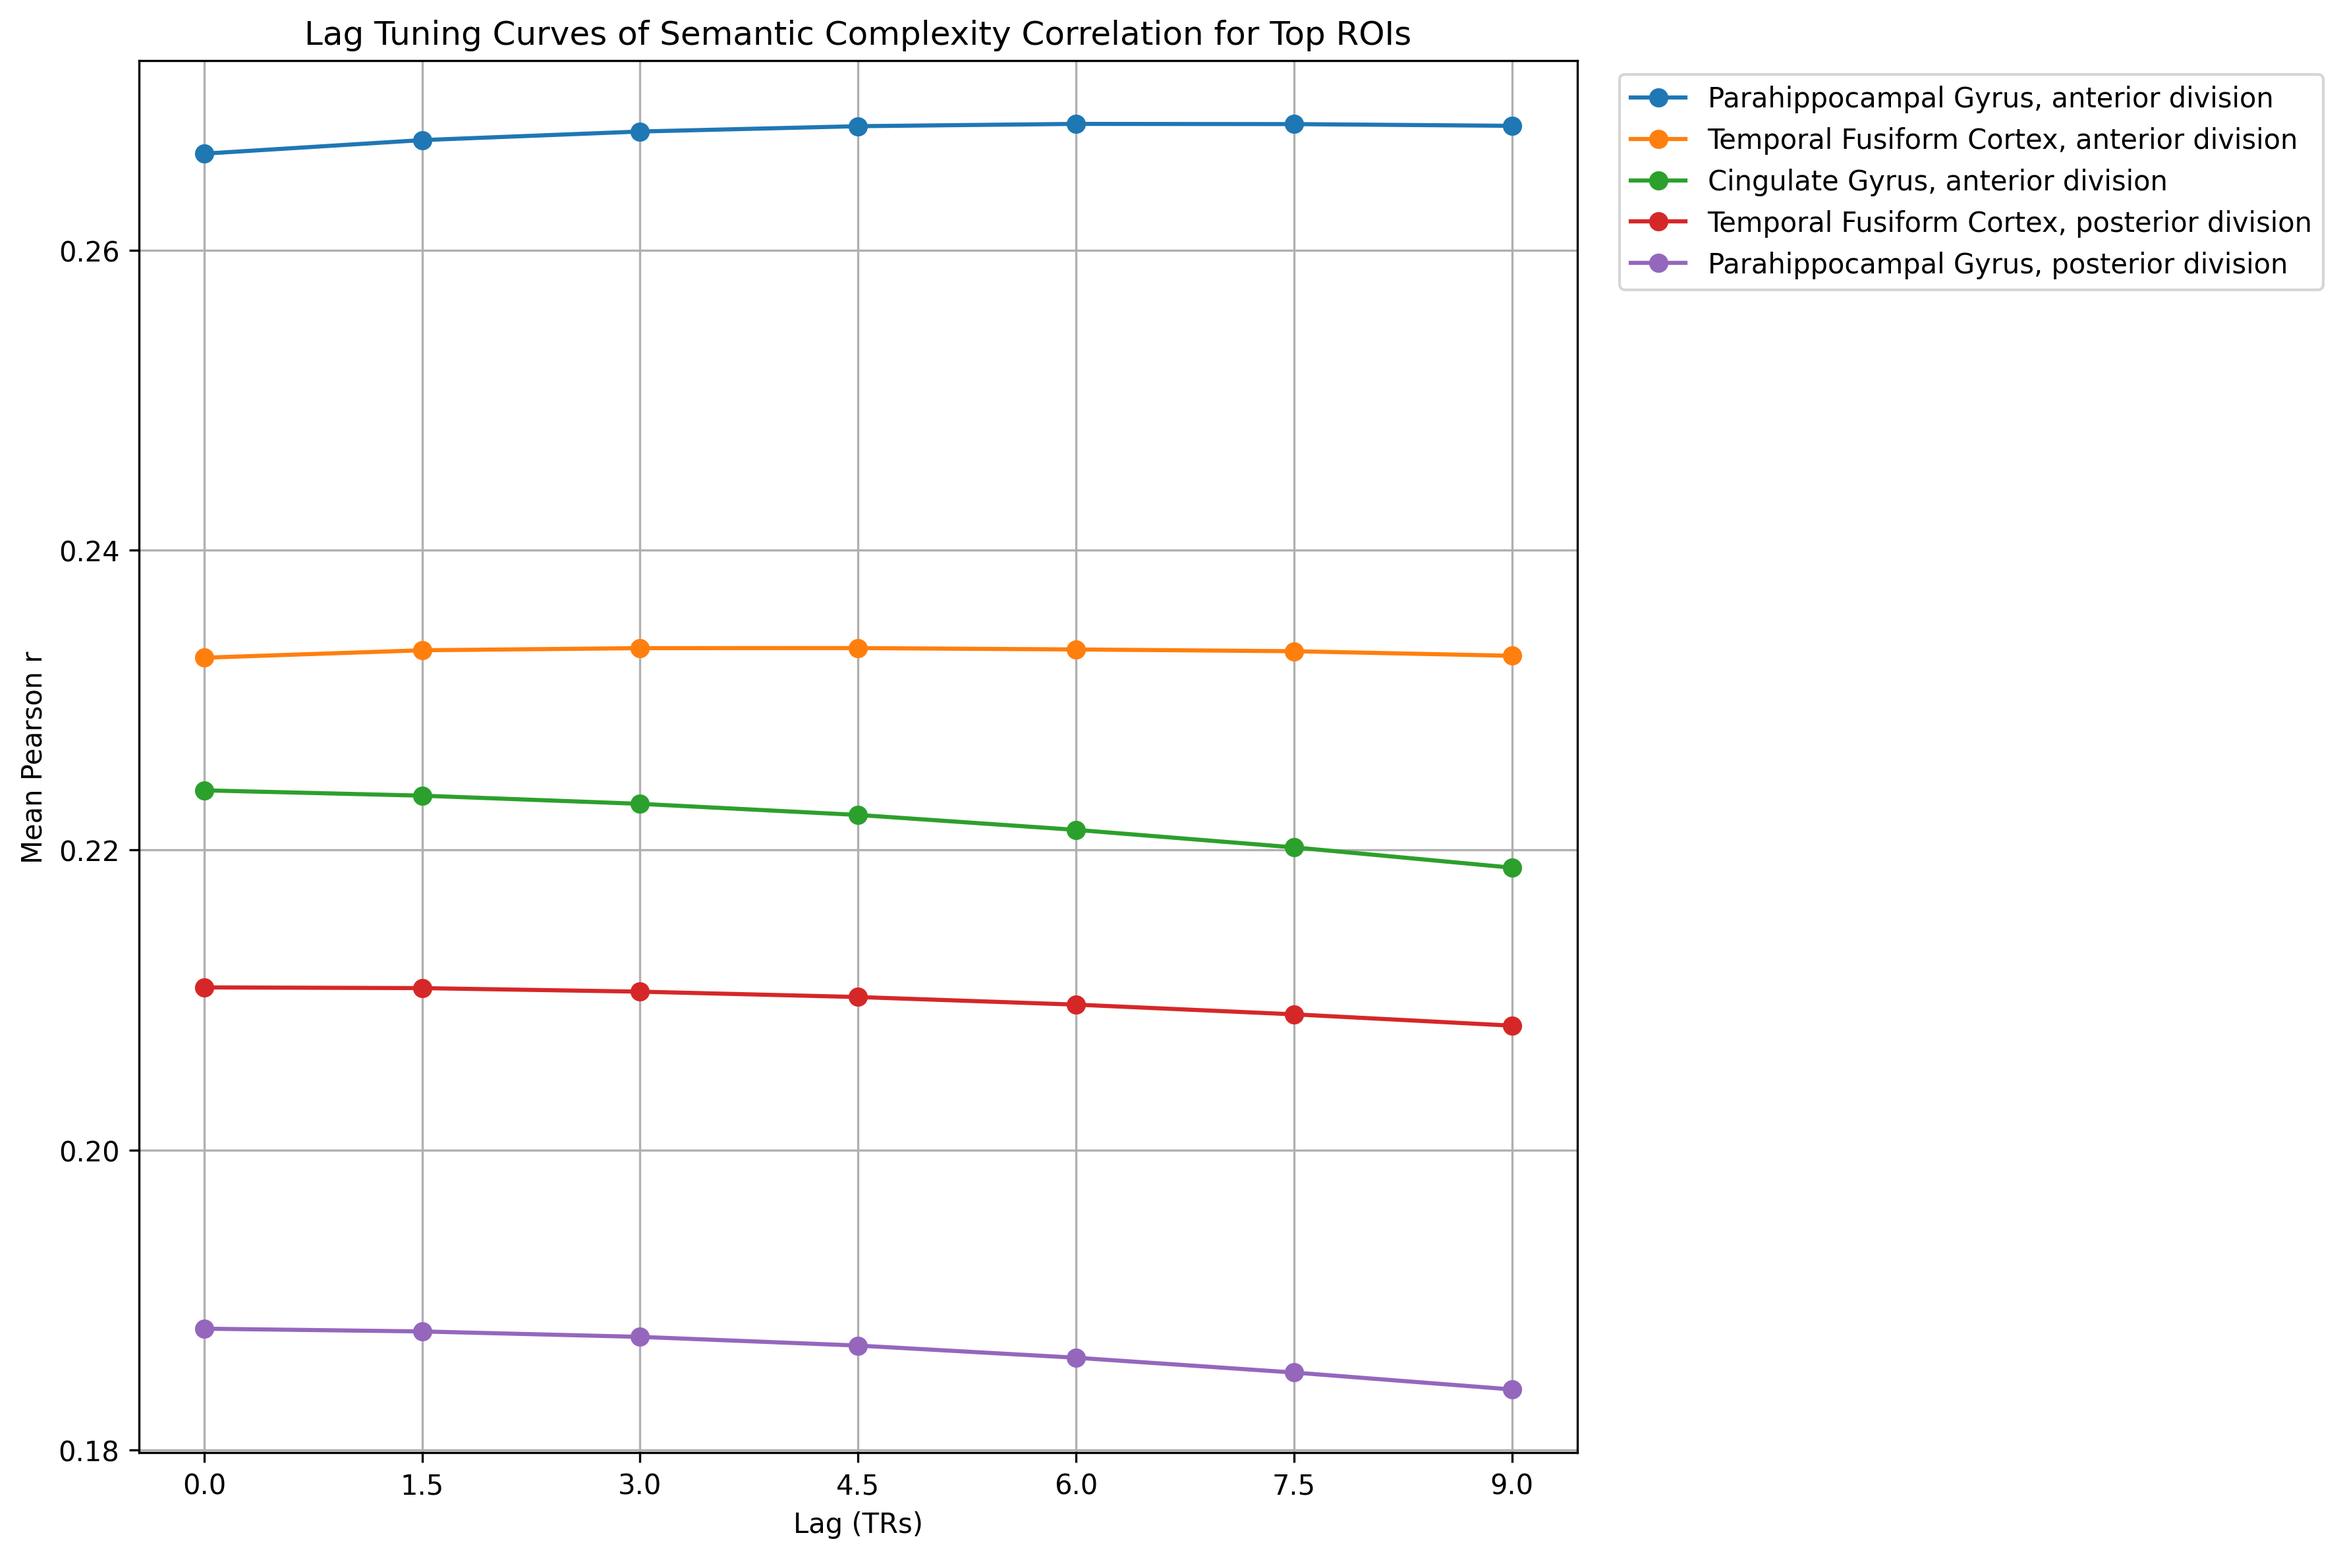
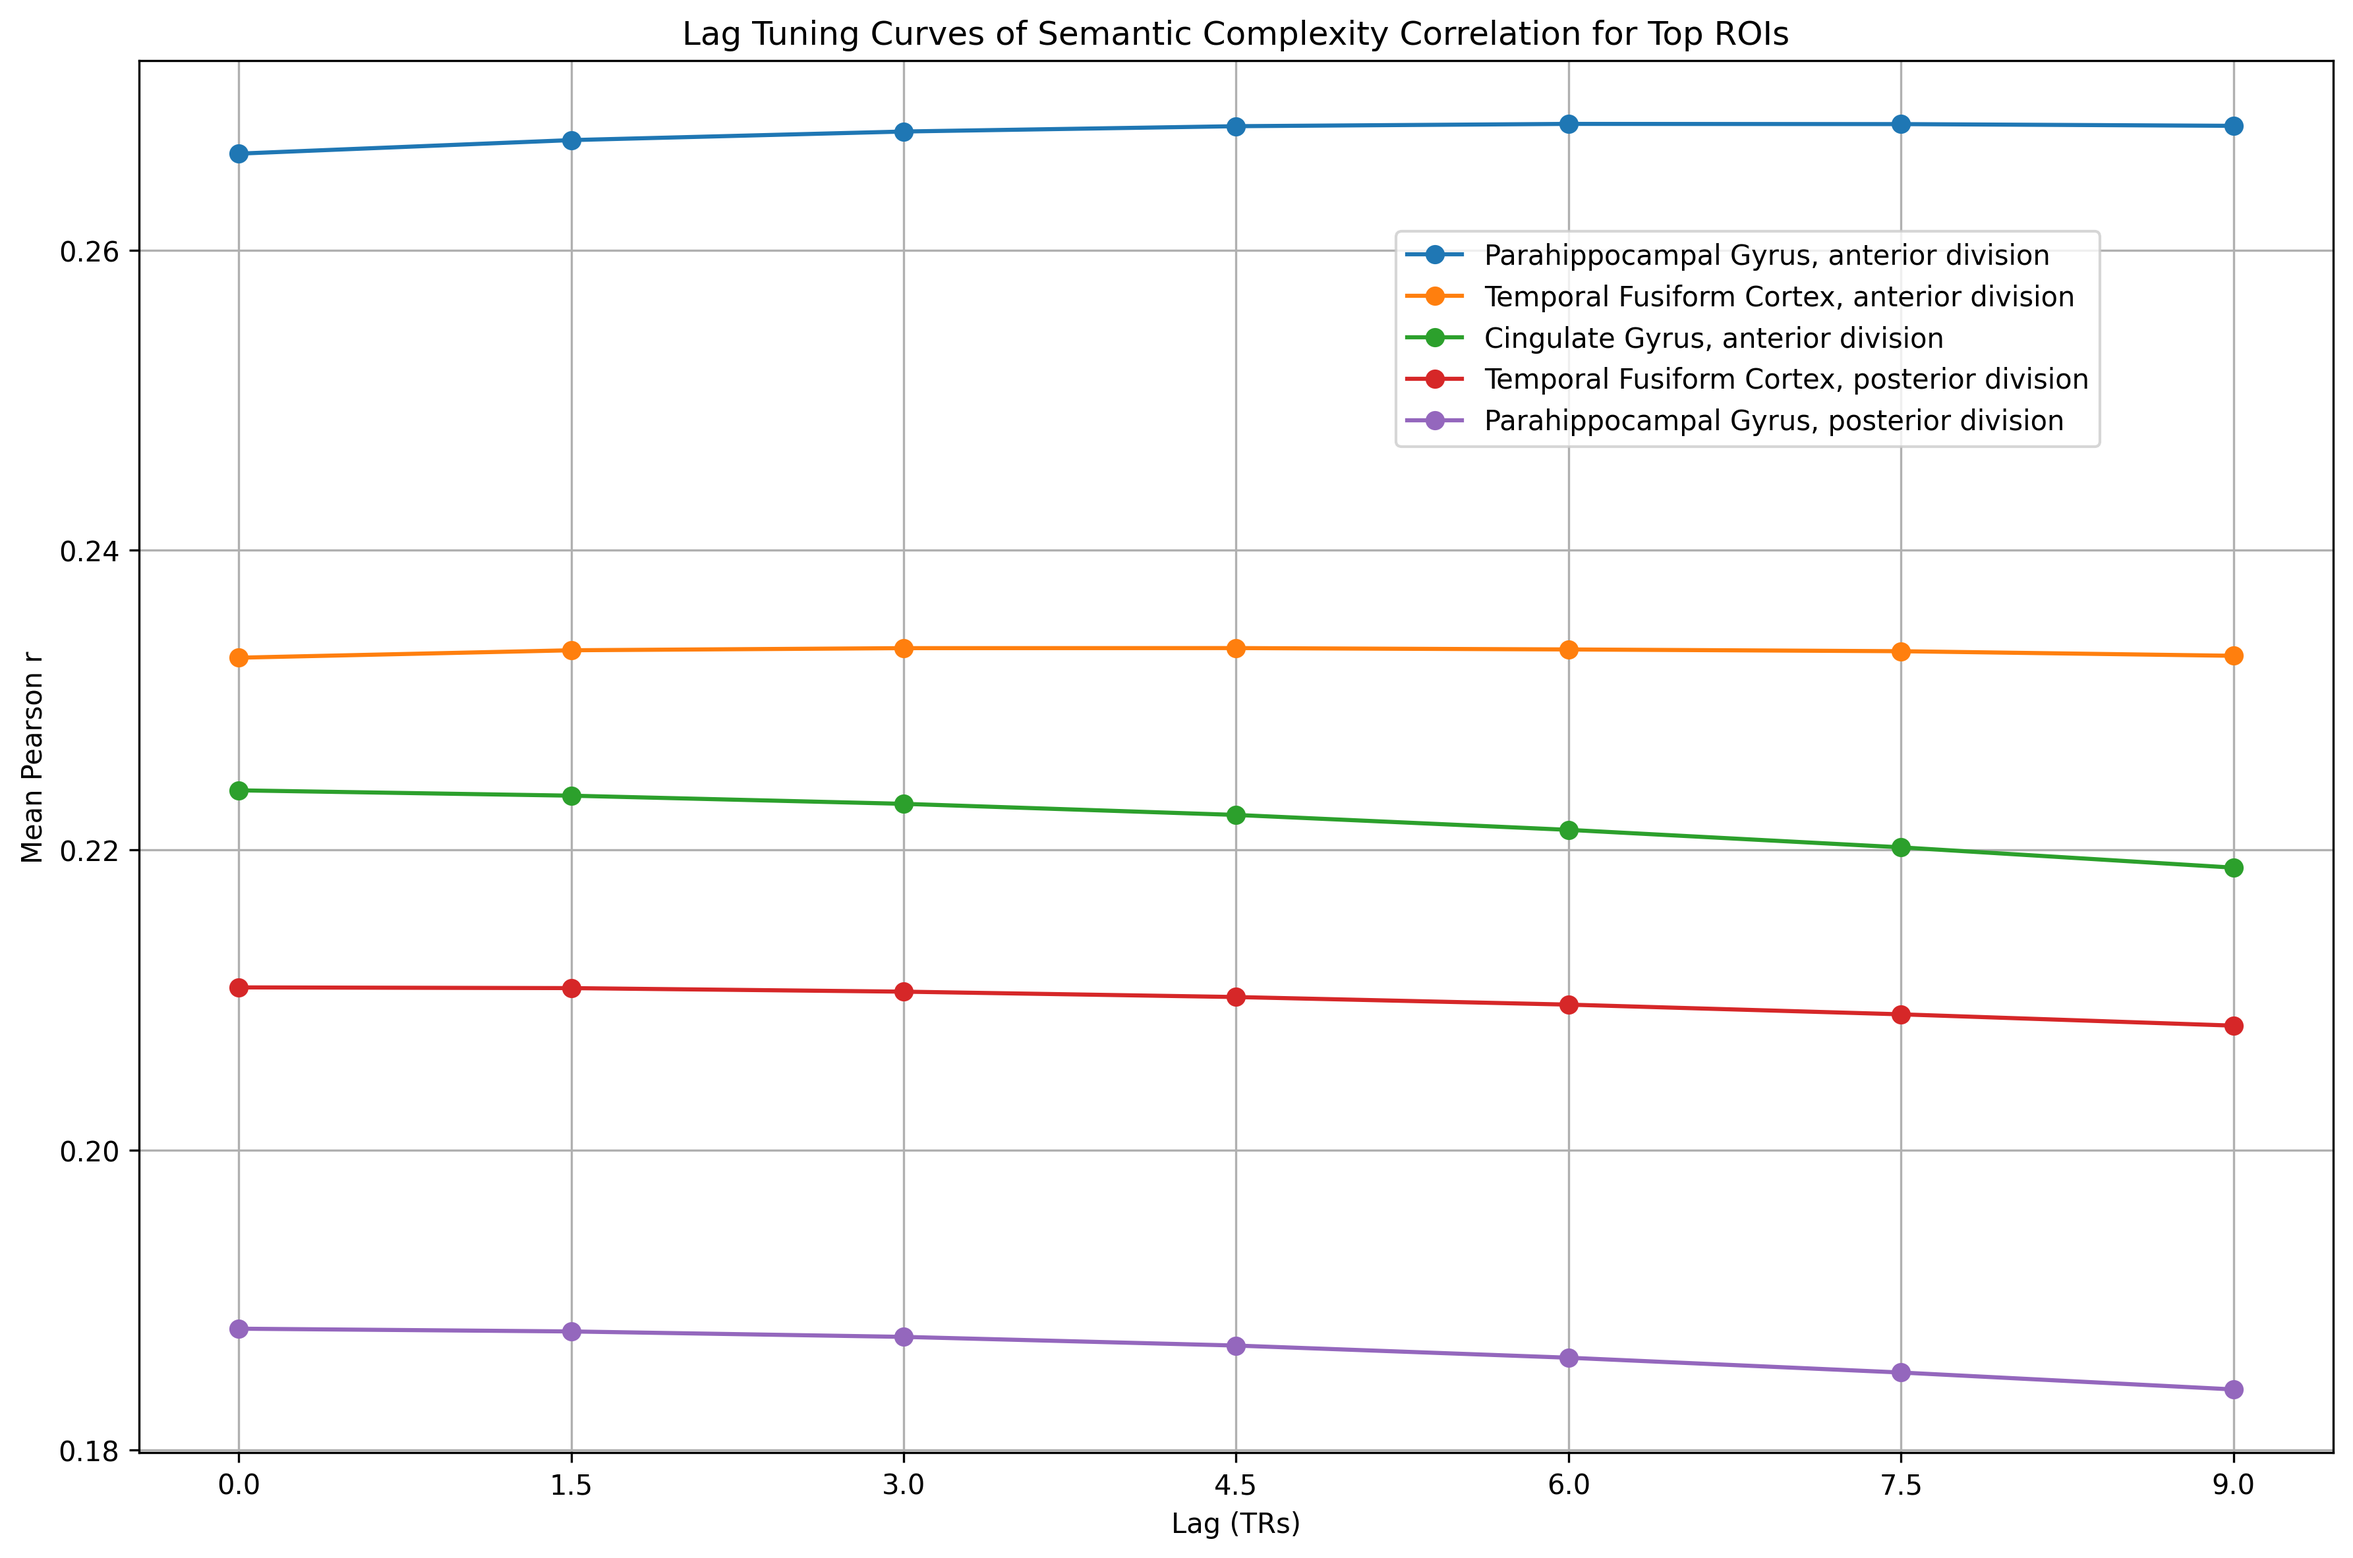
Figure-7 updated

diff --git a/figures.py b/figures.py
@@ -115,7 +115,7 @@ plt.xlabel("Lag (TRs)")
 plt.ylabel("Mean Pearson r")
 plt.title("Lag Tuning Curves of Semantic Complexity Correlation for Top ROIs")
 plt.xticks(ticks=range(7), labels=[f"{1.5 * i:.1f}" for i in range(7)])
-plt.legend(loc="upper left", bbox_to_anchor=(1.02, 1))
+plt.legend(loc="center right", bbox_to_anchor=(0.9, 0.8))
 plt.grid(True)
 plt.tight_layout()
 plt.savefig("results/figures/fig7_lag_tuning_curves.png", dpi=300, bbox_inches='tight')
